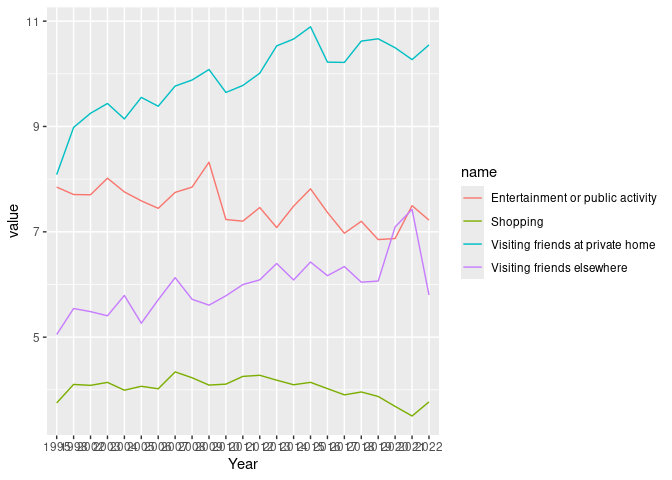
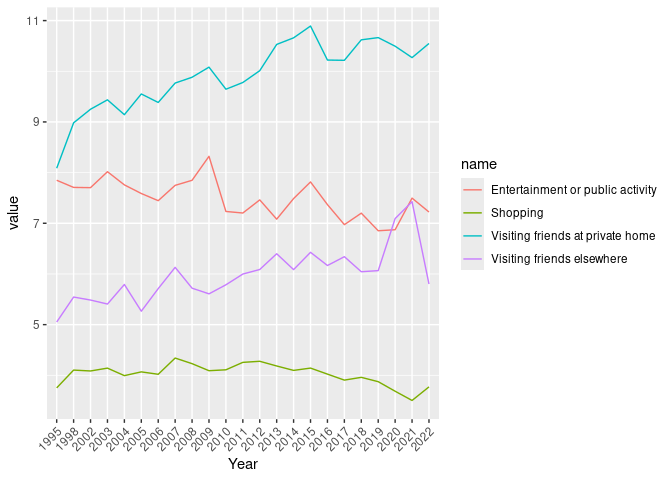
Update graph

diff --git a/report-utility-methods.md b/report-utility-methods.md
@@ -48,7 +48,9 @@ National Travel Survey
 ``` r
 nts0403_length_subset |>
   ggplot() +
-  geom_line(aes(x = Year, y = value, color = name, group = name)) 
+  geom_line(aes(x = Year, y = value, color = name, group = name)) +
+  # x label at 45 degrees:
+  theme(axis.text.x = element_text(angle = 45, hjust = 1))
 ```
 
 ![](report-utility-methods_files/figure-gfm/unnamed-chunk-2-1.png)<!-- -->
